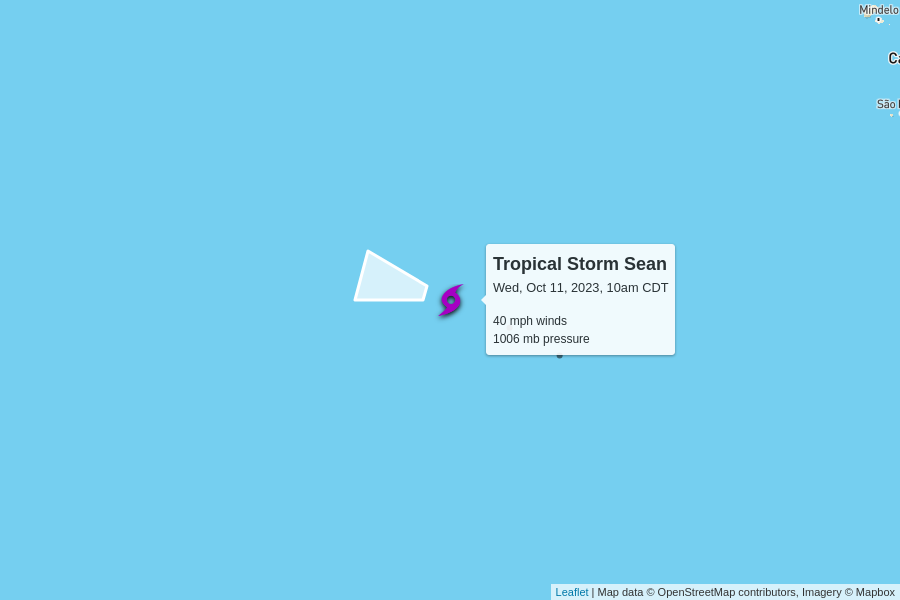
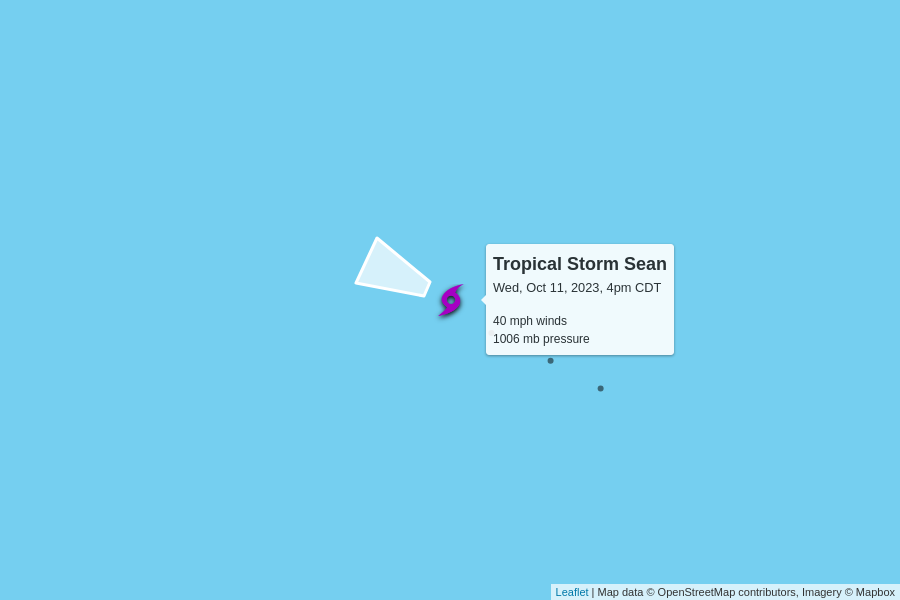
automatic update

diff --git a/docs/index.html b/docs/index.html
@@ -102,7 +102,7 @@
         <td colspan="6" class="storm category-0" >
           <h2>
             Tropical Storm Sean
-            <p class="updated">last updated <span data-time>2023-10-11T15:00:00.000Z</span></p>
+            <p class="updated">last updated <span data-time>2023-10-11T21:00:00.000Z</span></p>
           </h2>
         </td>
       </tr>
@@ -122,7 +122,7 @@
         <td>
           13 mph to the west-northwest
           <br/>
-          <span style="display: inline-block; font-size: 1.5em; transform: rotate(285deg);">↑</span>
+          <span style="display: inline-block; font-size: 1.5em; transform: rotate(295deg);">↑</span>
         </td>
         <td><a href="https://raw.githubusercontent.com/mgwalker/atlantic-hurricanes/main/data/csv/AL192023.csv">AL192023.csv</a></td>
         <td><a href="https://www.nhc.noaa.gov/archive/2023/SEAN.shtml?">NHC advisories</a></td>
